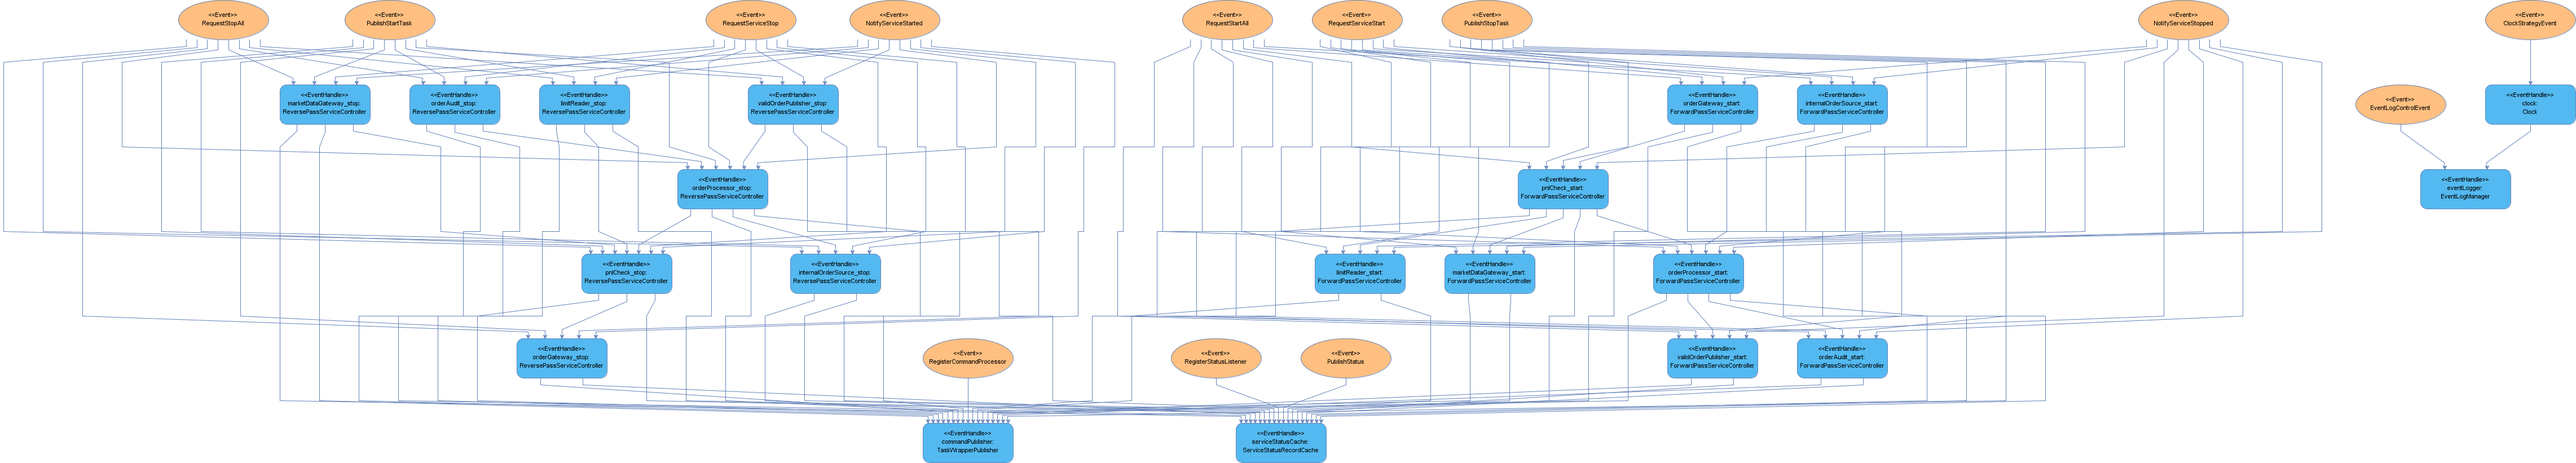
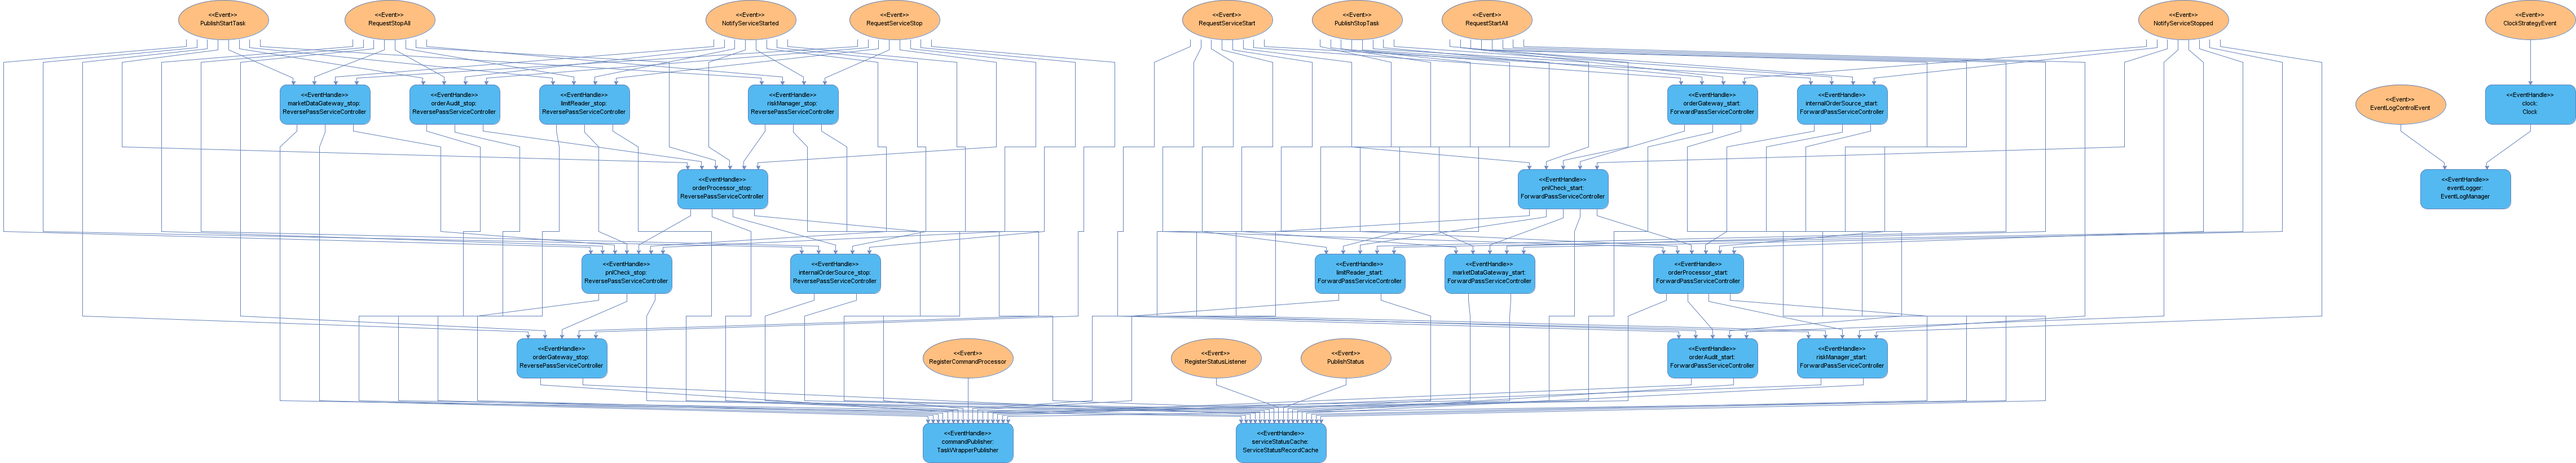
updated service name from validOrderPublisher to riskManager README.md

diff --git a/src/main/java/com/fluxtion/example/servicestarter/example1/Main.java b/src/main/java/com/fluxtion/example/servicestarter/example1/Main.java
@@ -17,7 +17,7 @@ public class Main {
     public static final String ORDER_PROCESSOR = "orderProcessor";
     public static final String INTERNAL_ORDER_SOURCE = "internalOrderSource";
     public static final String ORDER_AUDIT = "orderAudit";
-    public static final String VALID_ORDER_PUBLISHER = "validOrderPublisher";
+    public static final String RISK_MANAGER = "riskManager";
 
     public static void main(String[] args) {
         Service orderGateway = Service.builder(ORDER_GATEWAY)
@@ -60,7 +60,7 @@ public class Main {
                 .startTask(Main::emptyTask)
                 .build();
         //publishes valid orders
-        Service validOrderPublisher = Service.builder(VALID_ORDER_PUBLISHER)
+        Service riskManager = Service.builder(RISK_MANAGER)
                 .servicesThatRequireMe(orderProcessor)
                 .stopTask(Main::emptyTask)
                 .startTask(Main::emptyTask)
@@ -74,7 +74,7 @@ public class Main {
                 orderProcessor,
                 internalOrderSource,
                 orderAudit,
-                validOrderPublisher
+                riskManager
         );
         svcManager.registerTaskExecutor(new AsynchronousTaskExecutor());
         svcManager.triggerDependentsOnNotification(true);

diff --git a/src/main/java/com/fluxtion/example/servicestarter/example1/gui/ServiceManagaerFrame.java b/src/main/java/com/fluxtion/example/servicestarter/example1/gui/ServiceManagaerFrame.java
@@ -68,7 +68,7 @@ public class ServiceManagaerFrame {
         addNode(ORDER_PROCESSOR, 325, 250);
         addNode(INTERNAL_ORDER_SOURCE, 600, 250);
         addNode(ORDER_AUDIT, 200, 350);
-        addNode(VALID_ORDER_PUBLISHER, 450, 350);
+        addNode(RISK_MANAGER, 450, 350);
     }
 
     private void addNode(String name, int horizontal, int vertical) {

diff --git a/README.md b/README.md
@@ -41,10 +41,10 @@ The components within the system are:
 | limitReader         | Publishes limits for maximum order size                       |                                                      |
 | marketDataGateway   | Publishes market price for assets                             |                                                      |
 | pnlCheck            | Validates an order is within size<br/>and not too loss making | limitReader<br/>marketDataGateway<br/>orderProcessor |
-| orderProcessor      | Validates order details publishes order for processing        | orderAudit<br/>validOrderPublisher                   |
+| orderProcessor      | Validates order details publishes order for processing        | orderAudit<br/>riskManager                           |
 | internalOrderSource | Order from internal customers, no pnl check required          | orderProcessor                                       |
 | orderAudit          | Records all valid orders for audit                            |                                                      |
-| validOrderPublisher | Publishes orders and manages risk                             |                                                      |
+| riskManager         | Manages risk                                                  |                                                      |
 
 
 
